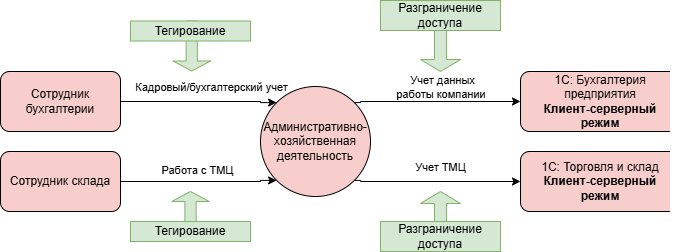
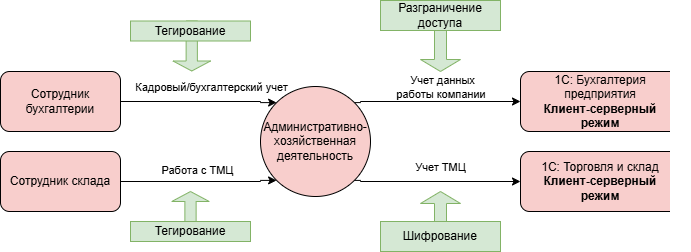
cleanup

Changed region(s): [[0.5774, 0.8889, 0.699, 1.0]]

diff --git a/Task1/improvements.md b/Task1/improvements.md
@@ -4,17 +4,14 @@
 
 | Данные | Способы защиты |
 |--------|----------------|
-| Иные ПДн пациентов (за исключением медицинских) | Разграничение доступа (RBAC), шифрование при передаче, тегирование, аудит доступа |
-| ПДн пациентов медицинского характера | Разграничение доступа (ABAC), обезличивание (если возможно), шифрование при передаче, тегирование, аудит доступа |
-| Финансовые данные | Разграничение доступа (RBAC), обезличивание (если возможно), шифрование при передаче, тегирование, аудит доступа |
-| Прочие данные о деятельности компании | Разграничение доступа (RBAC), шифрование при передаче, тегирование, аудит доступа |
+| Иные ПДн пациентов (за исключением медицинских) | Разграничение доступа (RBAC), шифрование, тегирование, аудит доступа |
+| ПДн пациентов медицинского характера | Разграничение доступа (ABAC), обезличивание (если возможно), шифрование, тегирование, аудит доступа |
+| Финансовые данные | Разграничение доступа (RBAC), обезличивание (если возможно), шифрование, тегирование, аудит доступа |
+| Прочие данные о деятельности компании | Разграничение доступа (RBAC), шифрование, тегирование, аудит доступа |
 
 #### Тегирование данных
 
-Для маркировки возможно внедрить инструменты, которые позволяют автоматически помечать данные при их обнаружении или создании.
-Informatica Data Catalog автоматизирует маркировку на основе правил профилирования и классификации данных.
-Microsoft Azure Information Protection применяет метки к документам и электронным письмам в Office 365.
-С учетом планируемых доработок в большей части предполагается собственная реализация тегирования.
+Выбор системы для тегирования достаточно сложен и определяется многими факторами, в т.ч. возможностью легальной покупки у поставщика. В приоритете использование Collibri, однако также стоит рассмотреть Apache Atlas несмотря на возможные сложности при интеграции. 
 Используемые теги:
 - PII для конфиденциальных данных клиентов (за исключением медицинских)
 - PHI для конфиденциальных медицинских данных
